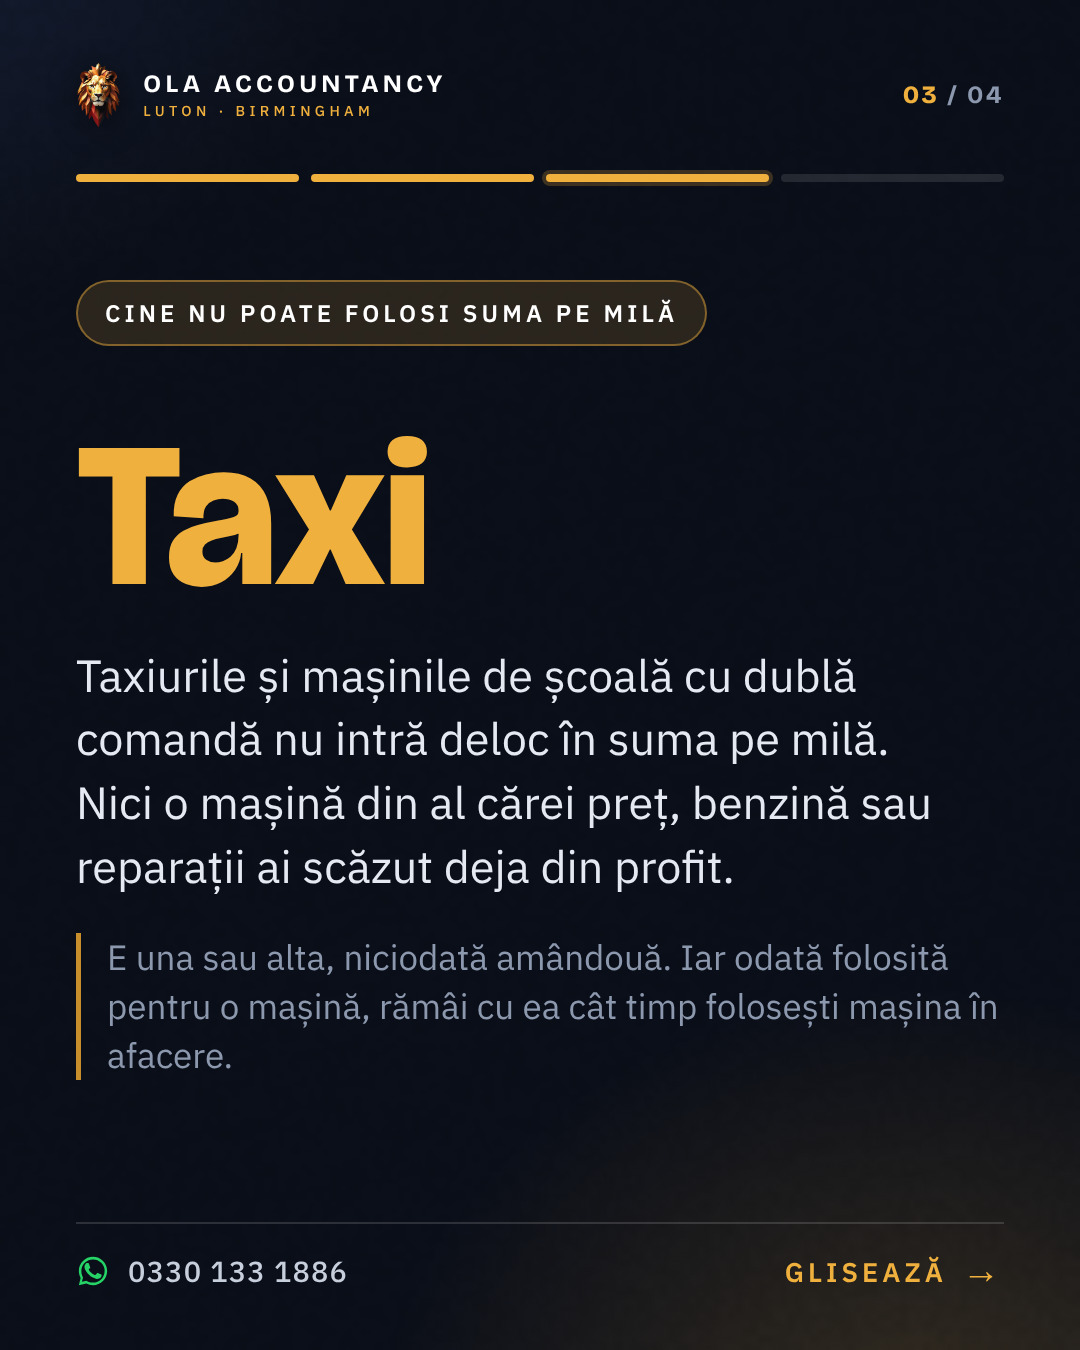
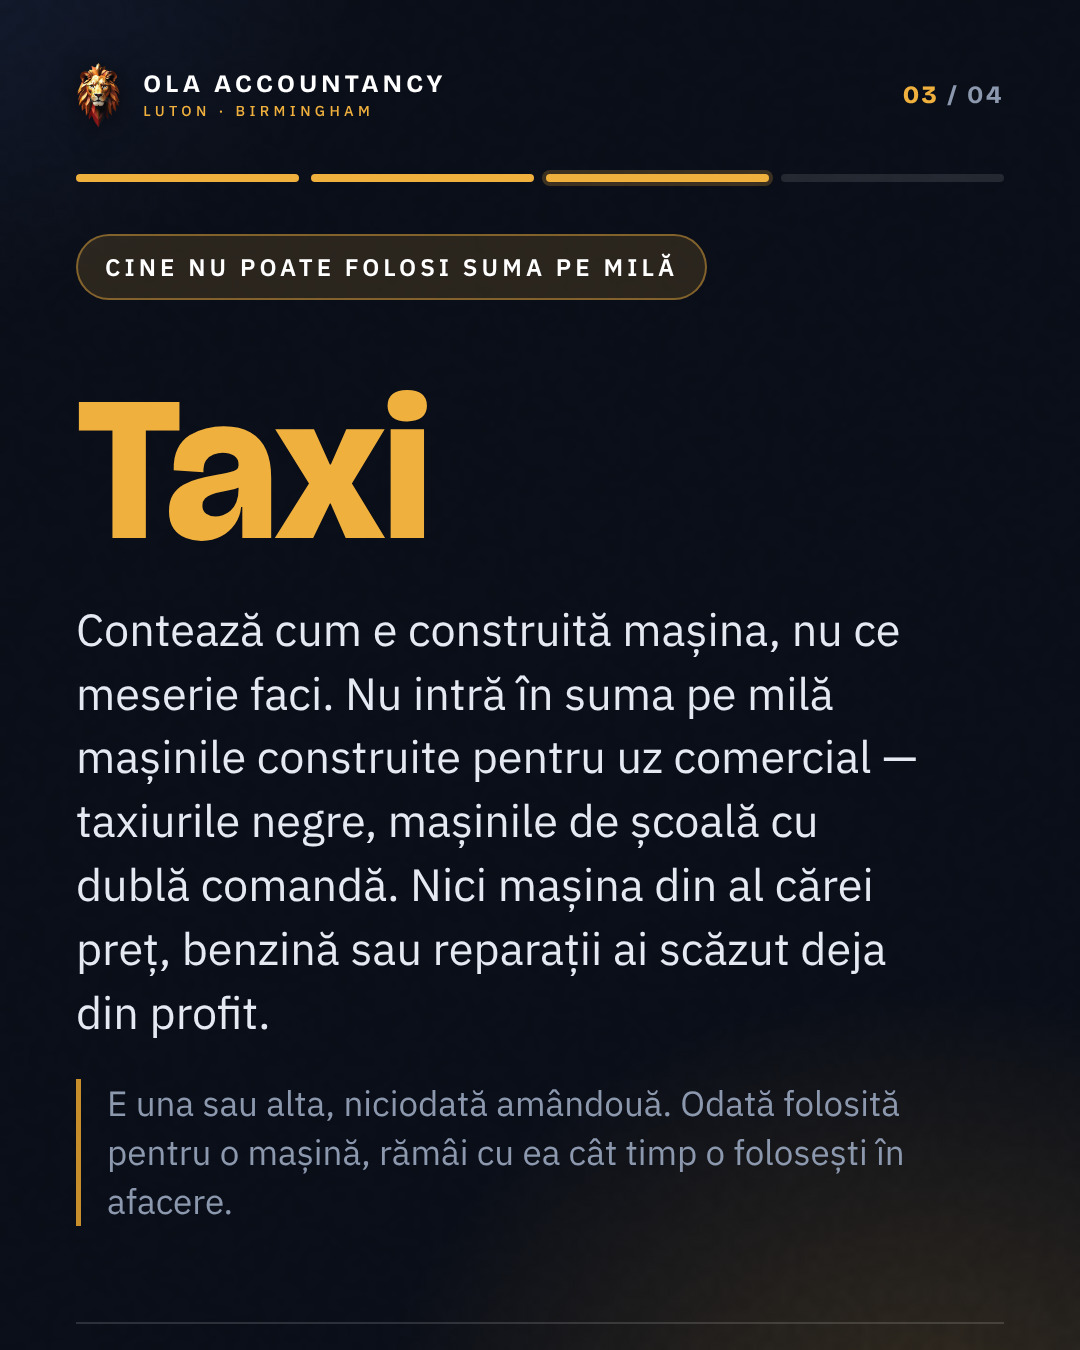
kilometraj-55p: the mileage exclusion keys on the vehicle's design, not the driver's trade
Gatekeeper repair, one fault in six places. GOV.UK excludes "cars (except
those designed for commercial use, for example, black cabs, hackney carriages
or dual control driving instructors' cars)" and BIM75005 names only "black
cabs or dual control driving instructor cars". The test is how the vehicle is
built, not what the driver does for a living. Two errors sat in one sentence:

(a) Stating the bar as a trade told private-hire and ride-hailing drivers they
    are excluded. They are not: an ordinary saloon on private hire is not a car
    designed for commercial use and CAN use the mileage flat rate, subject to
    the capital-allowances bar. This audience is full of those drivers, so the
    error denied real deductions to exactly the readers the post is for.
(b) "Outside simplified expenses entirely/altogether" is too broad even for a
    genuine black cab. Only the VEHICLE flat rate is barred; the flat rates for
    working from home and for living at your business premises are unaffected.

Fixed in the planner and at source, so a regeneration cannot reproduce it:
  1 topics.py RO card 3 — now leads "Contează cum e construită mașina, nu ce
    meserie faci" and names the commercial-use build, not the job.
  2 captions.py ro — the closing sentence no longer excludes taxi drivers and
    instructors; it states the design test and that an ordinary car qualifies.
  3 captions.py th (Threads) — same, within the 500 cap.
[…]

Changed region(s): [[0.0611, 0.1556, 0.8861, 0.9022], [0.0611, 0.9333, 0.3361, 0.9644], [0.7333, 0.9333, 0.8861, 0.9644]]

diff --git a/pipeline/carousel/topics.py b/pipeline/carousel/topics.py
@@ -832,8 +832,8 @@ MILEAGE_55P = dict(
          say="<b>55p</b> pentru primele 10.000 de mile într-un an fiscal, apoi <b>25p</b> pentru fiecare milă peste. Pe motocicletă, <b>24p</b> de la prima milă.",
          note="Drumul de la casă la muncă nu se numără — doar deplasările făcute pentru muncă. Până pe 5 aprilie 2026 primele 10.000 de mile se socoteau la 45p."),
     dict(type="step", step="Cine NU poate folosi suma pe milă", fig="Taxi",
-         say="Taxiurile și mașinile de școală cu dublă comandă nu intră deloc în suma pe milă. Nici o mașină din al cărei preț, benzină sau reparații ai scăzut deja din profit.",
-         note="E una sau alta, niciodată amândouă. Iar odată folosită pentru o mașină, rămâi cu ea cât timp folosești mașina în afacere."),
+         say="Contează cum e construită mașina, nu ce meserie faci. Nu intră în suma pe milă mașinile construite pentru uz comercial — taxiurile negre, mașinile de școală cu dublă comandă. Nici mașina din al cărei preț, benzină sau reparații ai scăzut deja din profit.",
+         note="E una sau alta, niciodată amândouă. Odată folosită pentru o mașină, rămâi cu ea cât timp o folosești în afacere."),
   ],
   CTA_RO=dict(type="cta",
     kicker="Cheltuieli · Mașina pentru muncă",
@@ -877,8 +877,10 @@ MILEAGE_55P = dict(
      "costs are already in business profits; and once the flat rate is used for a "
      "vehicle it must be kept for that vehicle",
      "https://www.gov.uk/simpler-income-tax-simplified-expenses/vehicles", "2026-11-06"),
-    ("Cars designed for commercial use are outside simplified expenses altogether — the page says \"except those designed for commercial use\" and gives black cabs, hackney carriages and dual-control driving instructors' cars as its examples",
+    ("The vehicle flat rate excludes \"cars (except those designed for commercial use, for example, black cabs, hackney carriages or dual control driving instructors' cars)\" — the test is the vehicle's DESIGN, not the driver's occupation, so an ordinary car used for private hire or ride-hailing is not excluded by this limb; and what is barred is the vehicle flat rate, not the simplified-expenses flat rates for working from home or for living at your business premises",
      "https://www.gov.uk/simpler-income-tax-simplified-expenses/vehicles", "2026-11-06"),
+    ("HMRC Business Income Manual BIM75005: the fixed rate mileage deduction covers cars, motorcycles and goods vehicles used for the trade \"(except cars designed for commercial use, for example black cabs or dual control driving instructor cars)\" — it names only those two, and no occupation-based exclusion appears anywhere in it",
+     "https://www.gov.uk/hmrc-internal-manuals/business-income-manual/bim75005", "2026-11-07"),
     ("Costs a self-employed person cannot claim, quoted verbatim: \"non-business driving or travel costs\", \"fines or penalty charges\" and \"travel between home and work\"",
      "https://www.gov.uk/expenses-if-youre-self-employed/travel", "2026-11-06"),
     ("The increase from 45 pence to 55 pence a mile for the first 10,000 miles, applying "
@@ -893,7 +895,7 @@ MILEAGE_55P = dict(
     nation="All of the UK — HMRC income tax rules for the self-employed, no devolved variation.",
     category="Self-employed people using simplified expenses for a car, goods vehicle or "
              "motorcycle used for business. The 55p/25p bands are per tax year, per vehicle.",
-    excluded="A car designed for commercial use — a black cab, a hackney carriage, a dual-control driving instructor's car — cannot use simplified expenses at all, which matters because taxi and private-hire driving is common in this audience. Nor can a vehicle on which capital allowances have been claimed, or whose running costs are already in business profits: one method or the other, never both. The miles themselves are also narrower than the hook suggests — \"travel between home and work\" cannot be claimed at all, so a driver going to the same site each day cannot count that journey, and nor can non-business driving or fines. The choice is locked in: once the flat rate is used for a vehicle it must be kept for that vehicle. And the 25p band starts at mile 10,001, so a high-mileage driver does not get 55p on every mile.",
+    excluded="A car designed for commercial use — a black cab, a hackney carriage, a dual-control driving instructor's car — cannot use the vehicle flat rate. The test is the vehicle's DESIGN, not the driver's occupation — which matters because private-hire and ride-hailing driving is common in this audience: a driver using an ordinary car is NOT excluded by this limb and CAN use the mileage flat rate, subject to the capital-allowances bar below. And only the vehicle flat rate is barred: the simplified-expenses flat rates for working from home and for living at your business premises are unaffected. Nor can a vehicle on which capital allowances have been claimed, or whose running costs are already in business profits: one method or the other, never both. The miles themselves are also narrower than the hook suggests — \"travel between home and work\" cannot be claimed at all, so a driver going to the same site each day cannot count that journey, and nor can non-business driving or fines. The choice is locked in: once the flat rate is used for a vehicle it must be kept for that vehicle. And the 25p band starts at mile 10,001, so a high-mileage driver does not get 55p on every mile.",
     from_when="55p applies from 6 April 2026, for the 2026/27 tax year and later years; it "
               "was 45p before that. Claimed on the tax return — nothing is paid out automatically."),
 )

diff --git a/pipeline/carousel/captions.py b/pipeline/carousel/captions.py
@@ -548,7 +548,7 @@ Dar nu orice milă se numără. GOV.UK trece „travel between home and work" di
 
 Exemplu: 8.000 de mile pentru muncă într-un an → 8.000 × 55p = £4.400 scăzuți din profit. La 14.000 de mile: primele 10.000 la 55p (£5.500) plus 4.000 la 25p (£1.000) = £6.500.
 
-Cine NU poate folosi suma pe milă deloc: mașinile construite pentru uz comercial. GOV.UK scrie „except those designed for commercial use" și dă ca exemple taxiurile negre, hackney carriages și mașinile de școală cu dublă comandă. Dacă conduci taxi sau ești instructor auto, suma pe milă nu ți se aplică.
+Cine NU poate folosi suma pe milă deloc: mașinile construite pentru uz comercial. GOV.UK scrie „except those designed for commercial use" și dă ca exemple taxiurile negre, hackney carriages și mașinile de școală cu dublă comandă. Contează cum e construită mașina, nu ce meserie faci — cu o mașină normală, chiar și pe aplicație, suma pe milă ți se aplică.
 
 Și nici pentru o mașină din al cărei preț, sau din a cărei benzină și reparații, ai scăzut deja din profit. E una sau alta, niciodată amândouă.
 
@@ -559,7 +559,7 @@ Se aplică în tot Regatul Unit. Se trece în declarație — nu vine nimic auto
 Nu știi cum se numără milele?""",
  th="""Lucrezi pe cont propriu și folosești mașina pentru muncă? Din 6 aprilie 2026 scazi 55p pe milă pentru primele 10.000 de mile, apoi 25p. Era 45p.
 
-Dar drumul de acasă la muncă nu se numără. Și taxiurile nu intră deloc în suma pe milă.""",
+Dar drumul de acasă la muncă nu se numără. Și mașinile construite pentru uz comercial (taxiurile negre) nu intră în suma pe milă — o mașină normală intră.""",
  li="""The self-employed mileage rate went up, and it is worth more than it looks.
 
 Simplified expenses, 2026/27:
@@ -575,7 +575,7 @@ But not every mile is a business mile. GOV.UK lists, verbatim, among the costs y
 
 Worked: 8,000 business miles in the year is 8,000 × 55p = £4,400. At 14,000 miles it is the first 10,000 at 55p (£5,500) plus 4,000 at 25p (£1,000) = £6,500.
 
-Who cannot use it at all: cars designed for commercial use. GOV.UK says "except those designed for commercial use" and names black cabs, hackney carriages and dual-control driving instructors' cars. A taxi or private-hire driver is outside simplified expenses entirely.
+Who cannot use it at all: cars designed for commercial use. GOV.UK says "except those designed for commercial use" and names black cabs, hackney carriages and dual-control driving instructors' cars. The test is the vehicle's design, not the driver's trade: a private-hire or ride-hailing driver in an ordinary car is not driving a car designed for commercial use, and can use the mileage flat rate. And it is the vehicle flat rate that is barred, not simplified expenses as a whole — the flat rates for working from home and for living at your business premises are unaffected.
 
 Nor can anyone who has already claimed capital allowances on that vehicle, or already put its running costs through business profits. One method or the other, never both.
 
@@ -586,7 +586,7 @@ UK-wide, claimed on the return rather than paid out.
 Want the vehicle position checked before January?""",
  bsky="""Self-employed? Business miles are 55p each for the first 10,000 in a tax year, then 25p. Home to work does not count.""",
  pin_title="UK self-employed mileage: 55p a mile from April 2026",
- pin="""HMRC simplified expenses mileage rates for 2026/27: 55p a mile for the first 10,000 business miles in a tax year, then 25p a mile, and 24p for motorcycles from the first mile. The first-10,000 rate rose from 45p on 6 April 2026. Travel between home and work does not count. Cars designed for commercial use — black cabs, dual-control instructors' cars — are outside simplified expenses altogether, as is any vehicle you have already claimed capital allowances on. UK-wide, claimed on the tax return.""",
+ pin="""HMRC simplified expenses mileage rates for 2026/27: 55p a mile for the first 10,000 business miles in a tax year, then 25p a mile, and 24p for motorcycles from the first mile. The first-10,000 rate rose from 45p on 6 April 2026. Travel between home and work does not count. Cars designed for commercial use — black cabs, dual-control instructors' cars — are outside the mileage flat rate, as is any vehicle you have already claimed capital allowances on. The test is the car's design, not the driver's trade. UK-wide, claimed on the tax return.""",
  gbp="""Business miles in your own car are worth up to 55p now, not 45p.
 
 If you are self-employed and use simplified expenses, you can take 55p a mile off your profit for the first 10,000 business miles in a tax year, then 25p a mile after that. Motorcycles are 24p from the first mile. The first-10,000 rate rose from 45p to 55p on 6 April 2026.
